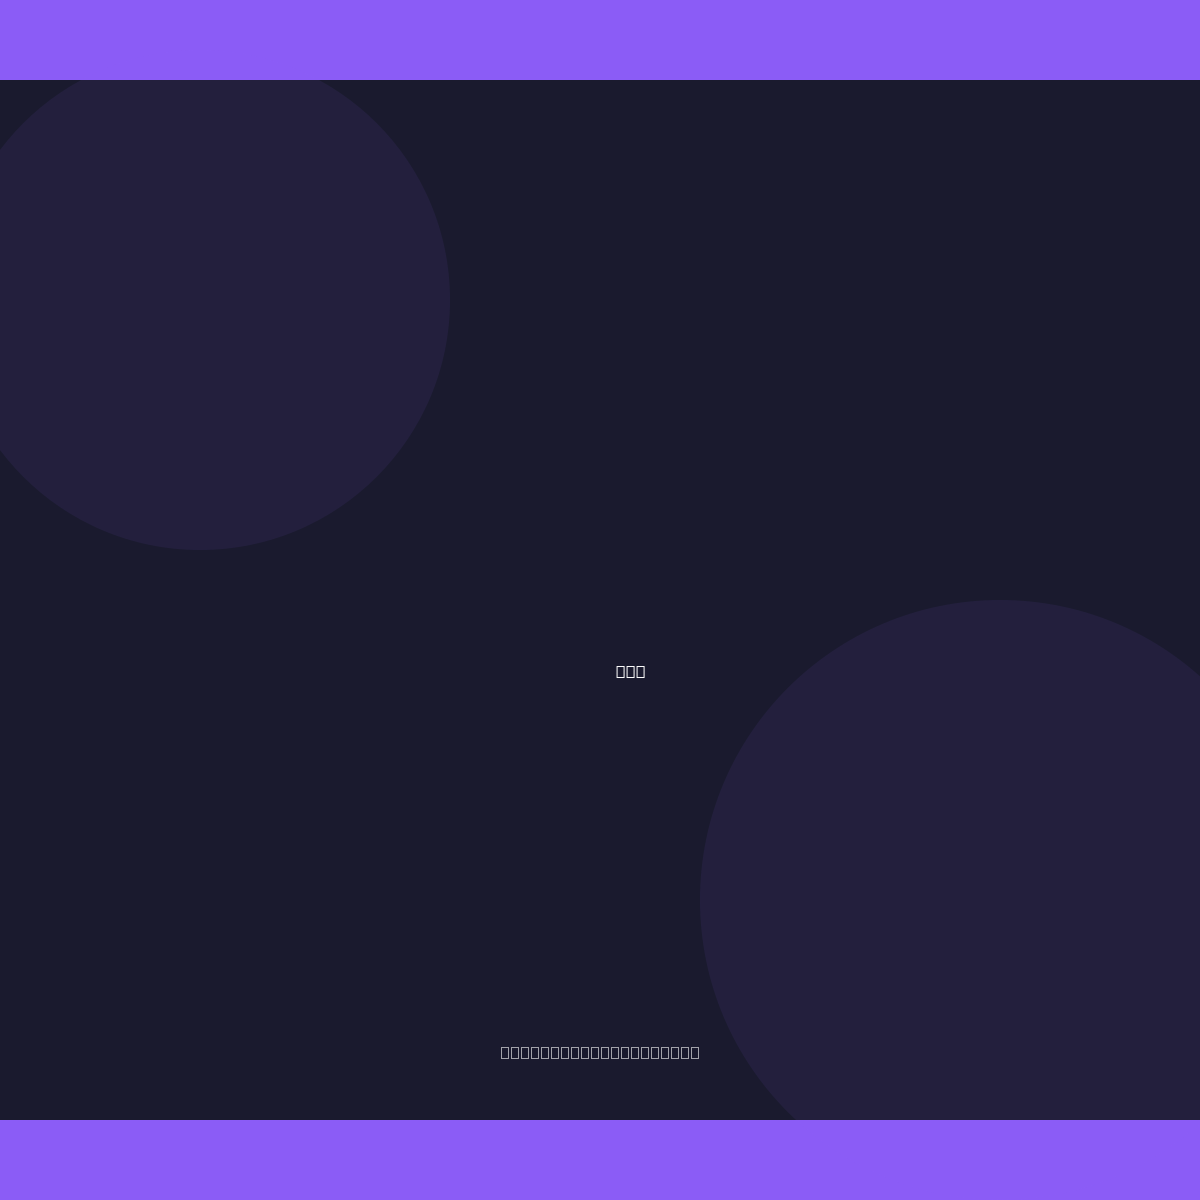
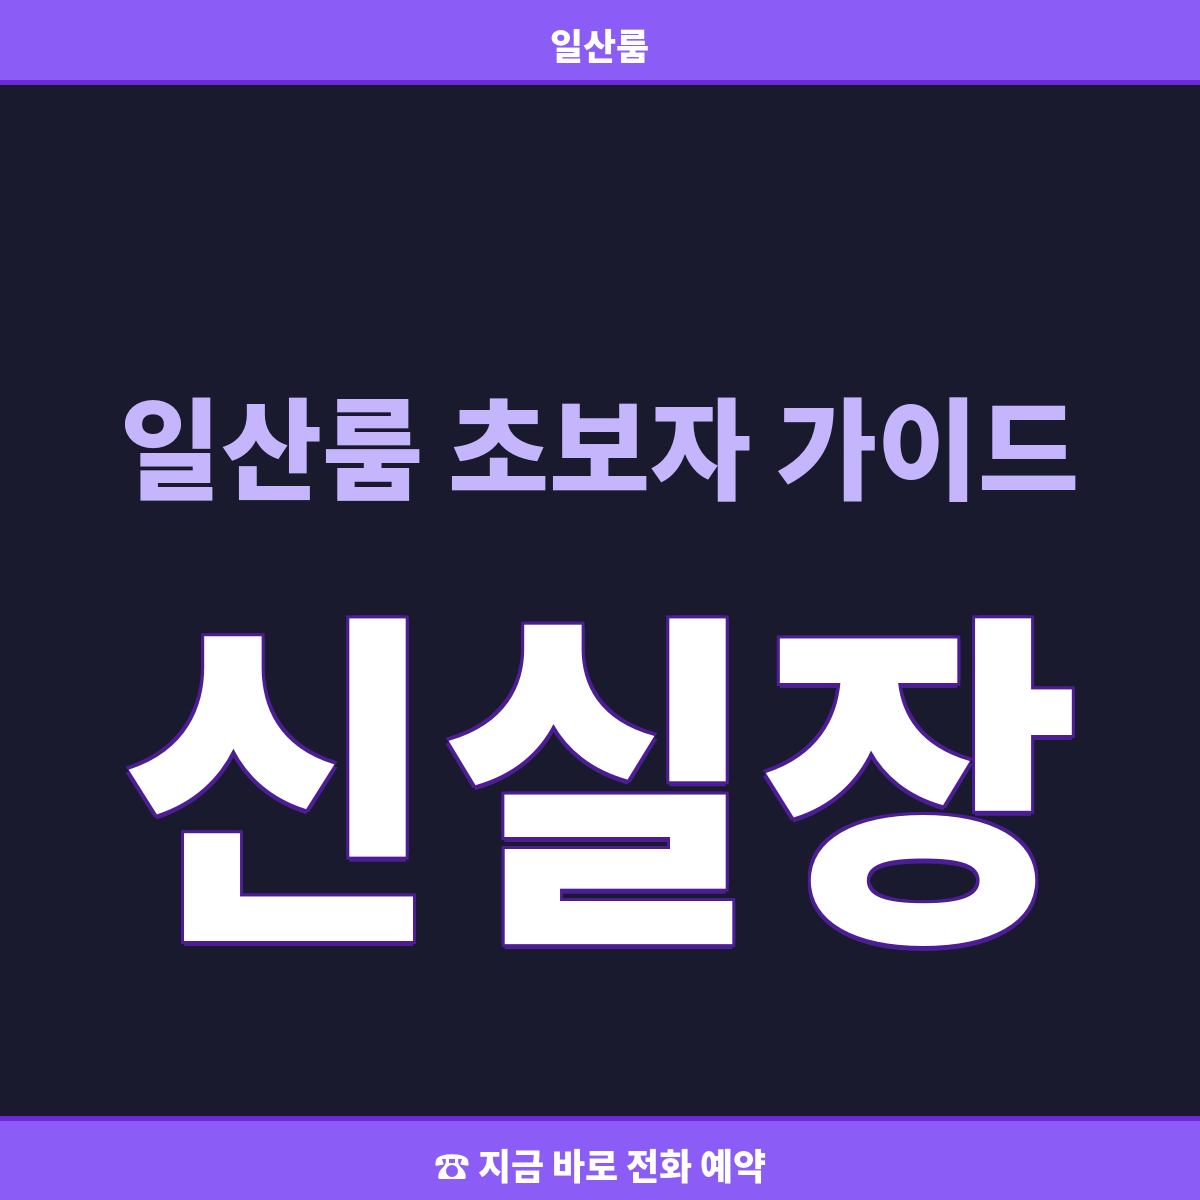
Regenerate OG thumbnails — 신실장 branding on every page
Bold Black weight Korean font, 1200x1200, dark navy + purple accent.
Remove unused og-price.png (price page was deleted).

diff --git a/generate-og.py b/generate-og.py
@@ -1,0 +1,111 @@
+#!/usr/bin/env python3
+import sys
+sys.path.insert(0, '/nix/store/fb6lfadl6w4k7fmxds7lks2jzvg9swlr-python3.11-pillow-10.2.0/lib/python3.11/site-packages')
+
+from PIL import Image, ImageDraw, ImageFont
+
+FONT_PATH = "/tmp/NotoSansKR-Black.otf"
+WIDTH, HEIGHT = 1200, 1200
+BG_COLOR = "#1a1a2e"
+ACCENT = "#8B5CF6"
+BAR_HEIGHT = 80
+
+pages = [
+    {"main": "신실장", "sub": "일산룸", "file": "og-home.png"},
+    {"main": "신실장", "sub": "일산룸 초보자 가이드", "file": "og-guide.png"},
+    {"main": "신실장", "sub": "일산룸 지역별 후기", "file": "og-review.png"},
+]
+
+
+def find_max_font_size(draw, text, font_path, max_width, max_size=500, min_size=20):
+    for size in range(max_size, min_size, -2):
+        font = ImageFont.truetype(font_path, size)
+        bbox = draw.textbbox((0, 0), text, font=font)
+        tw = bbox[2] - bbox[0]
+        if tw <= max_width:
+            return font, tw, bbox[3] - bbox[1]
+    return ImageFont.truetype(font_path, min_size), 0, 0
+
+
+def generate(page):
+    img = Image.new("RGB", (WIDTH, HEIGHT), BG_COLOR)
+    draw = ImageDraw.Draw(img)
+
+    # Top bar
+    draw.rectangle([0, 0, WIDTH, BAR_HEIGHT], fill=ACCENT)
+    # Bottom bar
+    draw.rectangle([0, HEIGHT - BAR_HEIGHT, WIDTH, HEIGHT], fill=ACCENT)
+
+    # Decorative line below top bar
+    draw.rectangle([0, BAR_HEIGHT, WIDTH, BAR_HEIGHT + 4], fill="#6D28D9")
+    # Decorative line above bottom bar
+    draw.rectangle([0, HEIGHT - BAR_HEIGHT - 4, WIDTH, HEIGHT - BAR_HEIGHT], fill="#6D28D9")
+
+    target_width = int(WIDTH * 0.8)
+
+    # Main text — 신실장 (HUGE)
+    main_font, main_tw, main_th = find_max_font_size(
+        draw, page["main"], FONT_PATH, target_width, max_size=500
+    )
+
+    # Sub text
+    sub_font, sub_tw, sub_th = find_max_font_size(
+        draw, page["sub"], FONT_PATH, target_width, max_size=160
+    )
+
+    # Vertical positioning: center both texts together
+    total_h = main_th + sub_th + 40  # 40px gap
+    start_y = (HEIGHT - total_h) // 2
+
+    # Draw sub text (above main)
+    sub_x = (WIDTH - sub_tw) // 2
+    draw.text((sub_x, start_y), page["sub"], fill="#c4b5fd", font=sub_font)
+
+    # Draw main text (big, centered)
+    main_x = (WIDTH - main_tw) // 2
+    main_y = start_y + sub_th + 40
+
+    # Glow/shadow effect for main text
+    for offset in [(3, 3), (-3, -3), (3, -3), (-3, 3), (0, 5)]:
+        draw.text(
+            (main_x + offset[0], main_y + offset[1]),
+            page["main"],
+            fill="#4C1D95",
+            font=main_font,
+        )
+
+    draw.text((main_x, main_y), page["main"], fill="white", font=main_font)
+
+    # Top bar text
+    bar_font = ImageFont.truetype(FONT_PATH, 36)
+    bar_text = "일산룸"
+    bar_bbox = draw.textbbox((0, 0), bar_text, font=bar_font)
+    bar_tw = bar_bbox[2] - bar_bbox[0]
+    bar_th = bar_bbox[3] - bar_bbox[1]
+    draw.text(
+        ((WIDTH - bar_tw) // 2, (BAR_HEIGHT - bar_th) // 2 - 4),
+        bar_text,
+        fill="white",
+        font=bar_font,
+    )
+
+    # Bottom bar — phone CTA
+    bottom_text = "☎ 지금 바로 전화 예약"
+    bottom_bbox = draw.textbbox((0, 0), bottom_text, font=bar_font)
+    btw = bottom_bbox[2] - bottom_bbox[0]
+    bth = bottom_bbox[3] - bottom_bbox[1]
+    draw.text(
+        ((WIDTH - btw) // 2, HEIGHT - BAR_HEIGHT + (BAR_HEIGHT - bth) // 2 - 4),
+        bottom_text,
+        fill="white",
+        font=bar_font,
+    )
+
+    img.save(page["file"])
+    print(f"Created: {page['file']} ({img.size[0]}x{img.size[1]})")
+
+
+for p in pages:
+    generate(p)
+
+print("All OG images generated!")
